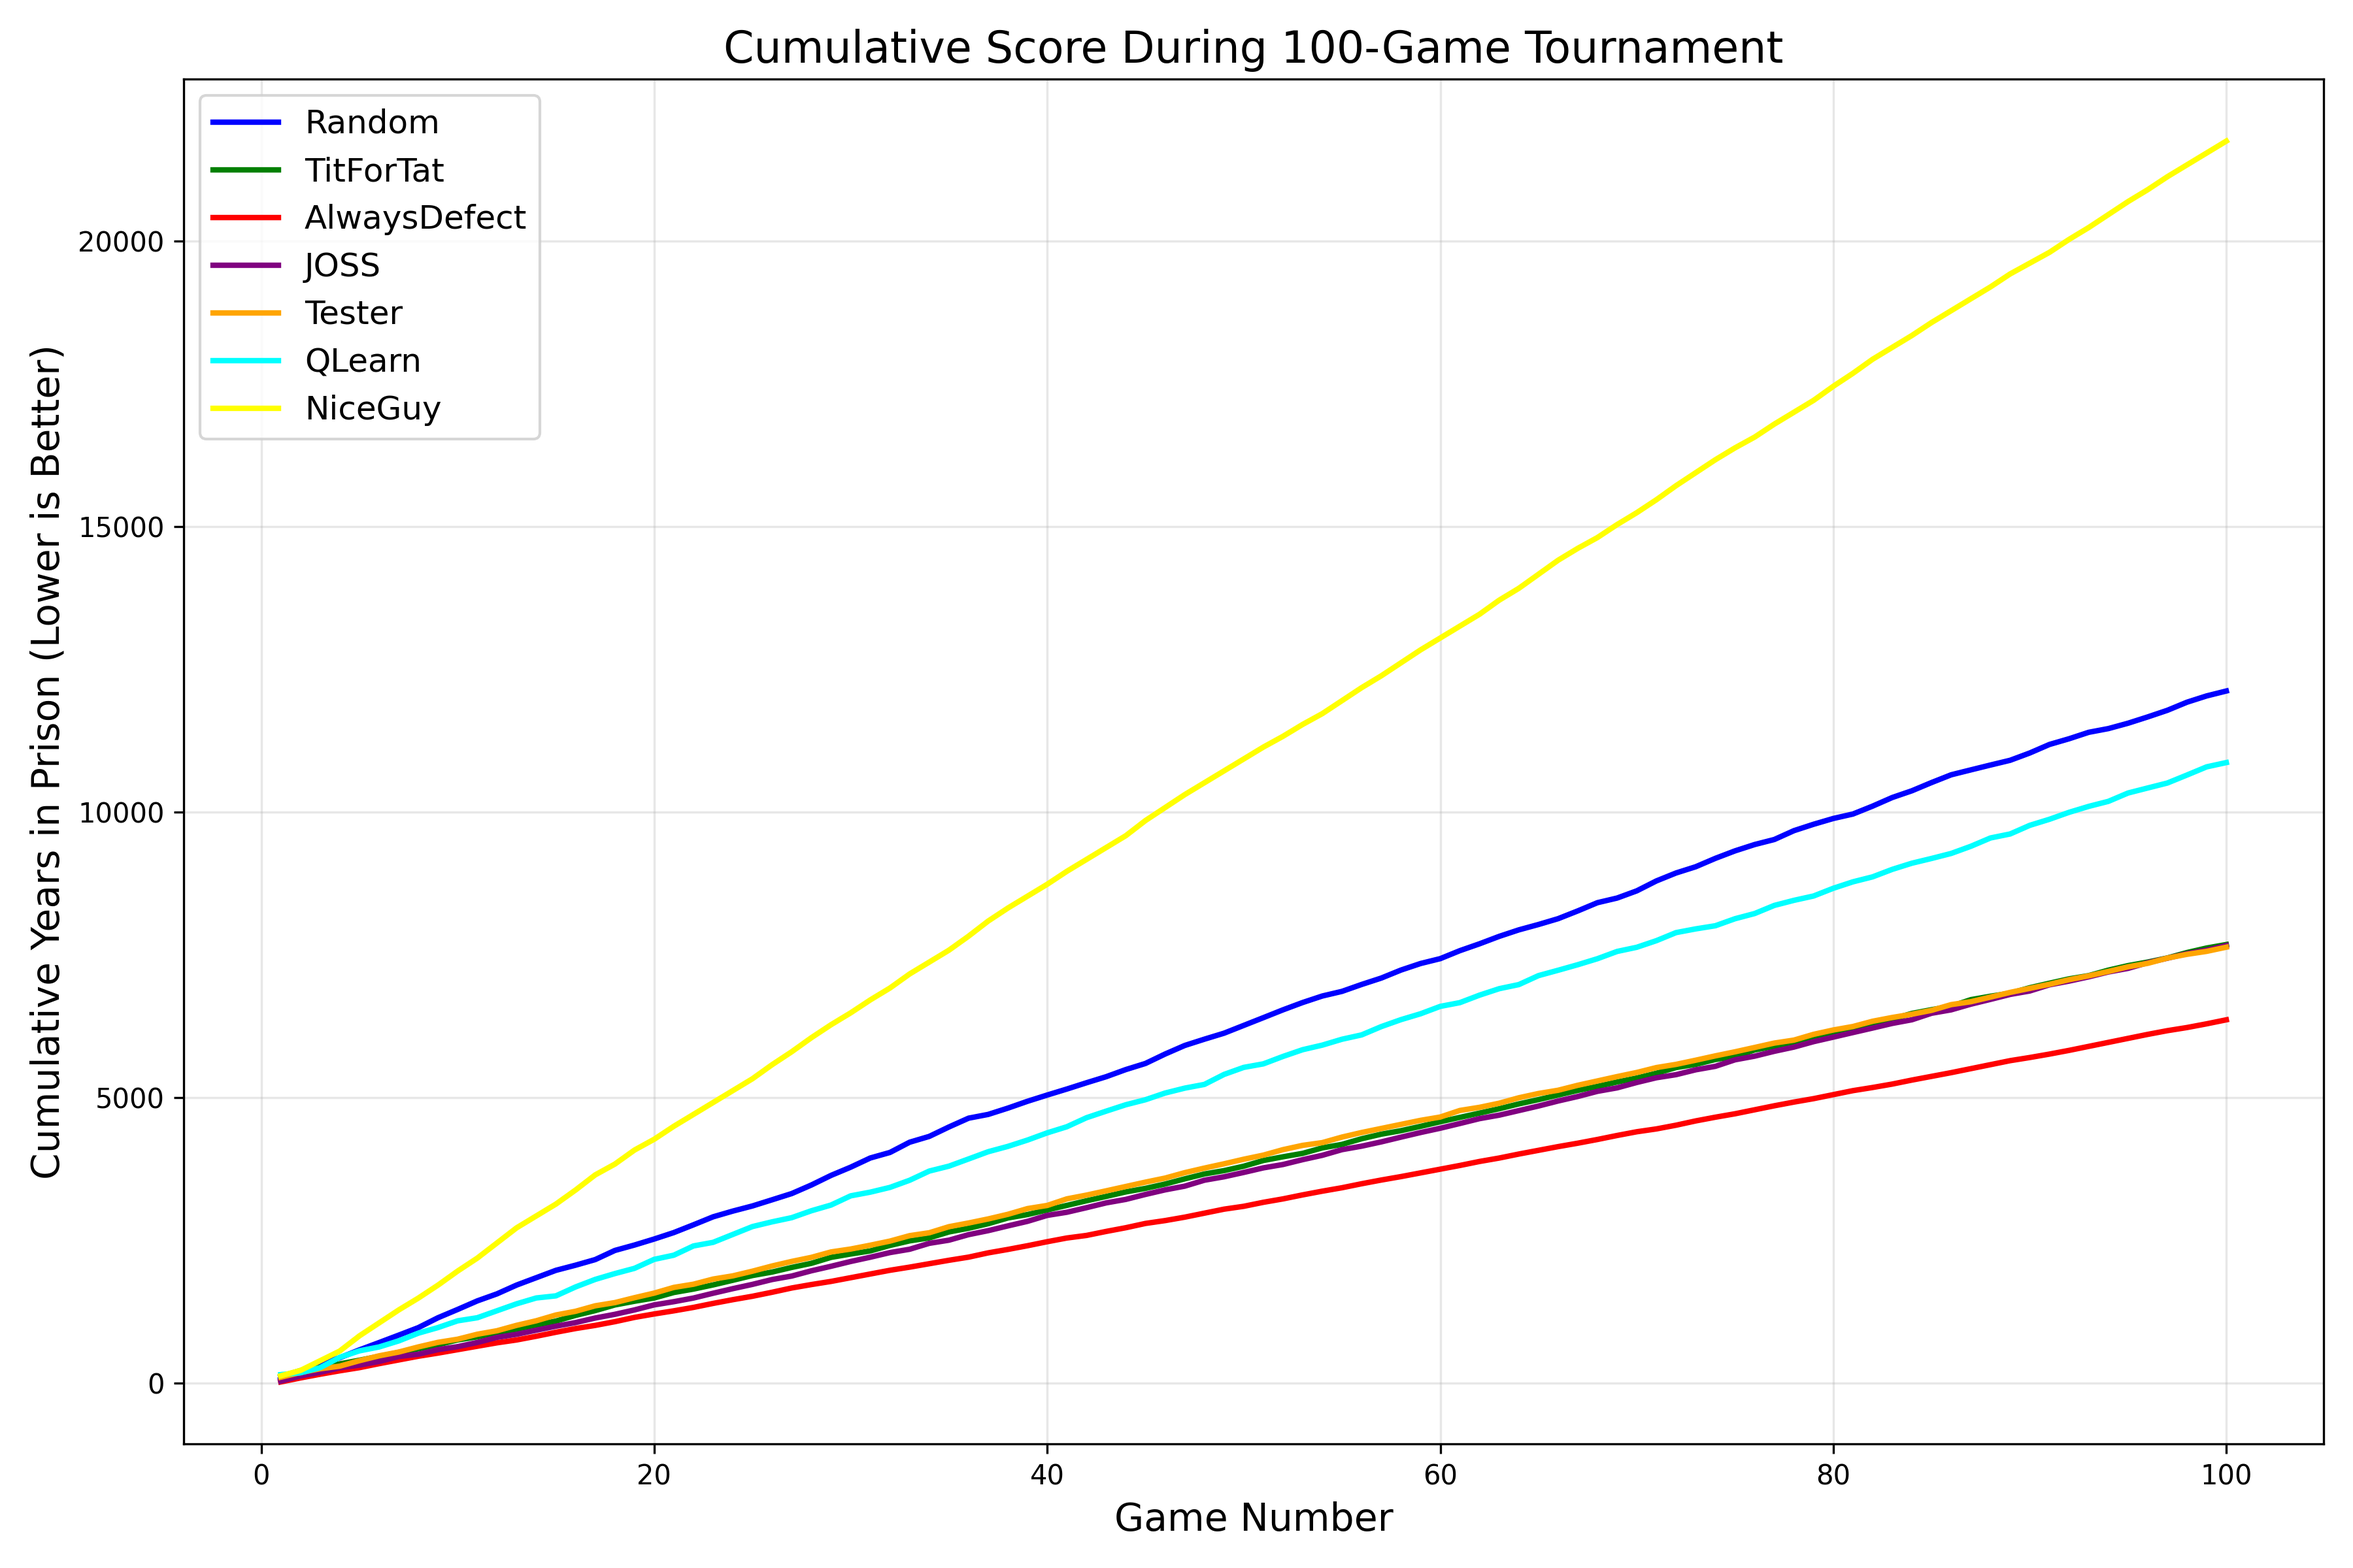
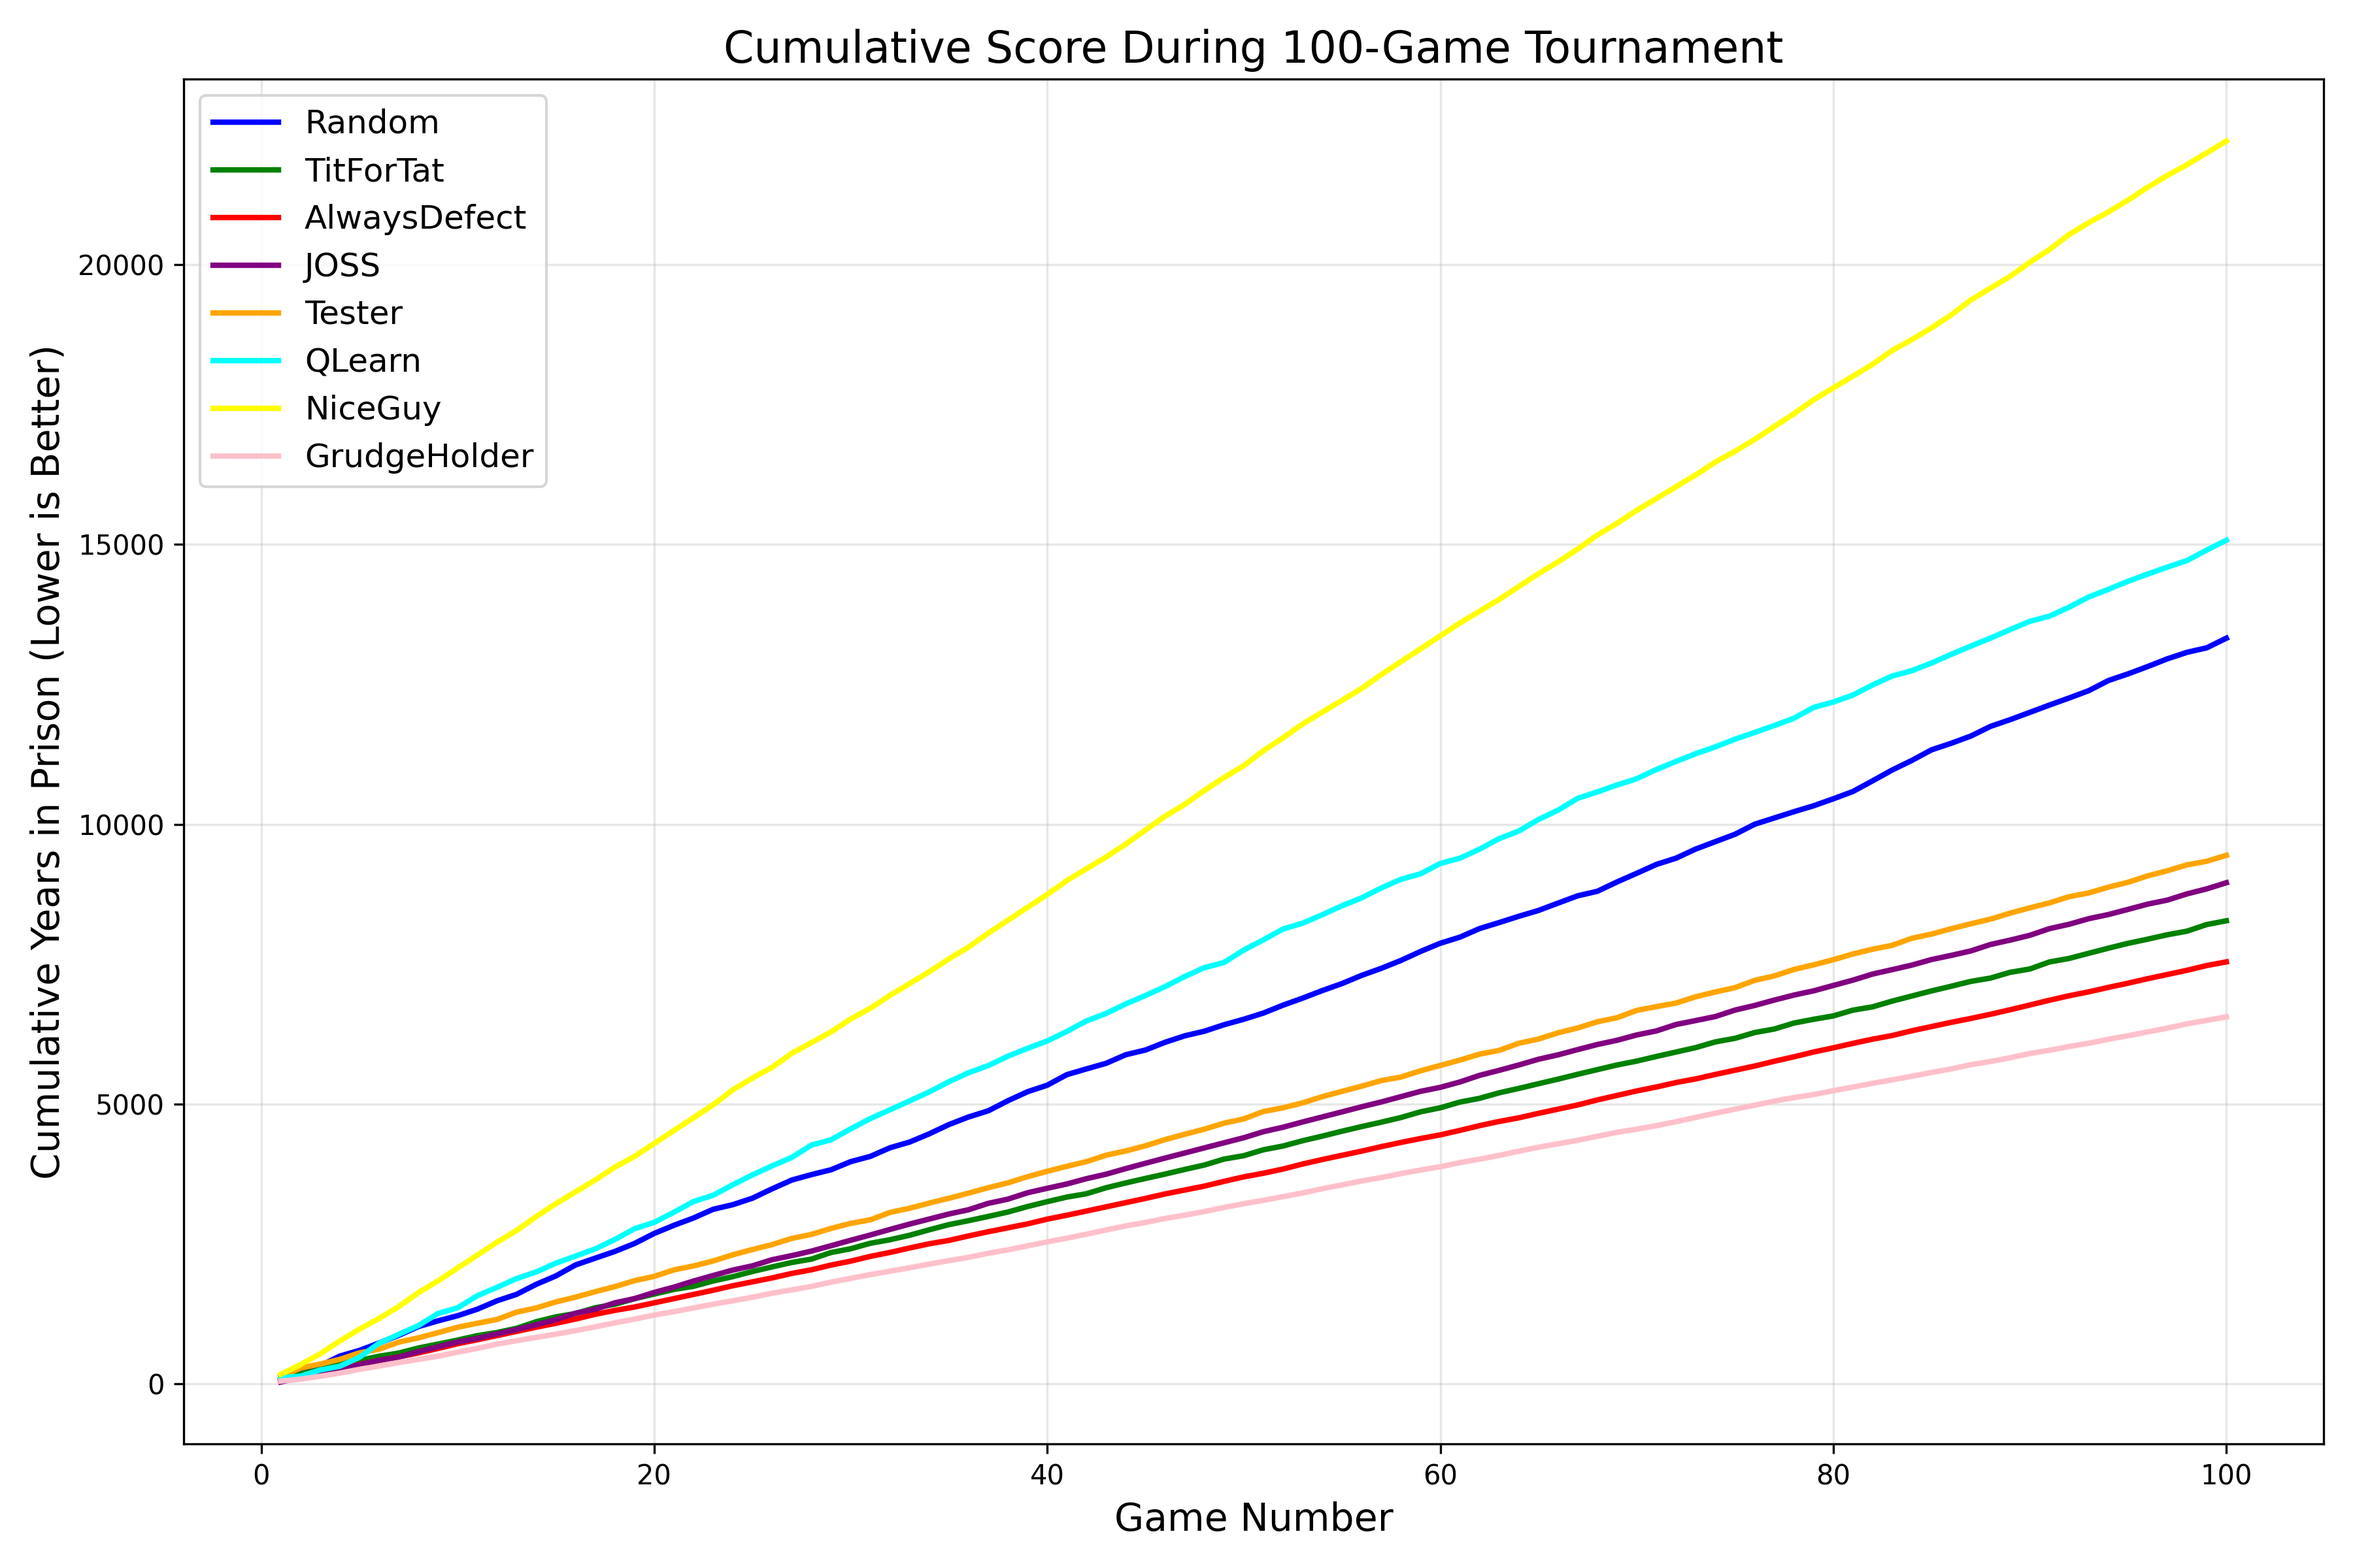
stat update

diff --git a/src/main.py b/src/main.py
@@ -27,7 +27,8 @@ def train_q_table(num_training_games=500000):
         (ALL_D(), "AlwaysDefect"),
         (Random(), "Random"),
         (JOSS(), "JOSS"),
-        (Tester(), "Tester")
+        (Tester(), "Tester"),
+        (GrudgeHolder(), "GrudgeHolder")
     ]
     
     # Treniraj proti vsaki strategiji
@@ -210,7 +211,9 @@ def run_tournament(show_individual_games=False):
                 (ALL_D(), "AlwaysDefect"),
                 (JOSS(), "JOSS"),
                 (Tester(), "Tester"),
-                 (NICE_GUY(), "NiceGuy")
+                (NICE_GUY(), "NiceGuy"),
+                (qlearner, "QLearn"), 
+                (GrudgeHolder(), "GrudgeHolder")
             ]
             
             scores, details, strategy_scores_by_game = tournament_round(
@@ -269,7 +272,9 @@ def visualize_tournament_results(all_tournament_scores, all_tournament_details):
         'AlwaysDefect': 'red',
         'JOSS': 'purple',
         'Tester': 'orange',
-        'NiceGuy': 'yellow'
+        'NiceGuy': 'yellow',
+        'QLearn': 'cyan',
+        'GrudgeHolder': 'pink'
     }
     
     # Extract data for plotting
